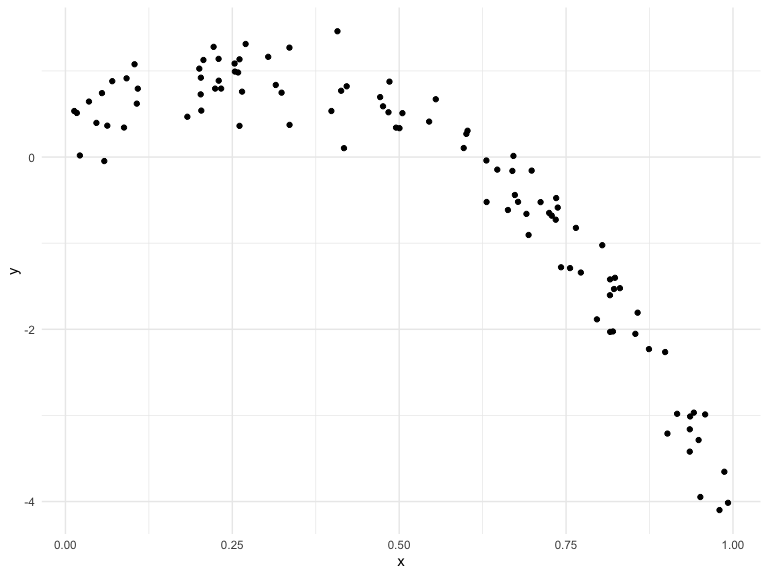
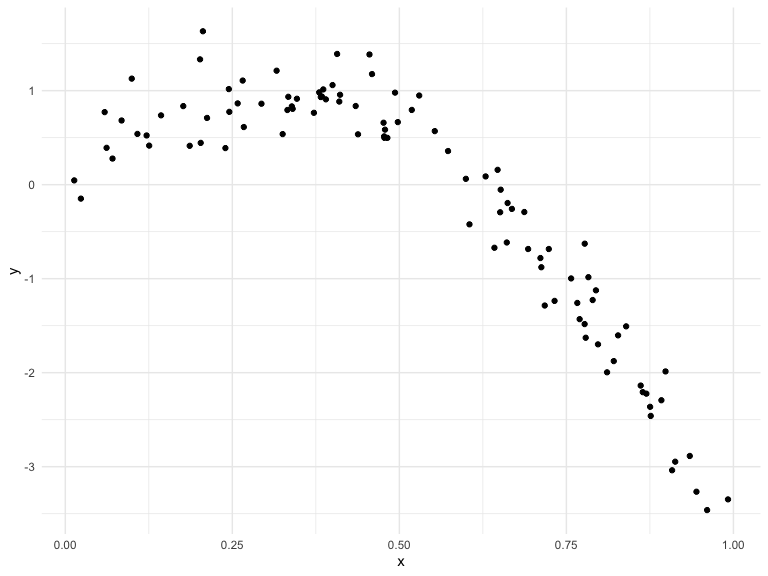
review course website content and edit

diff --git a/cross_validation.md b/cross_validation.md
@@ -1,7 +1,7 @@
 Cross Validation
 ================
 Elaine Yanxi Chen
-2022-12-01
+2022-12-03
 
 ## Packages and settings
 
@@ -30,11 +30,15 @@ options(
 
 scale_colour_discrete = scale_colour_viridis_d
 scale_fill_discrete = scale_fill_viridis_d
+
+set.seed(1)
 ```
 
 ## Step one
 
 Cross validation “by hand” on simulated data.
+
+We first generate a non-linear model by hand.
 
 ``` r
 nonlin_df = 
@@ -51,7 +55,10 @@ nonlin_df %>%
 
 <img src="cross_validation_files/figure-gfm/unnamed-chunk-1-1.png" width="90%" />
 
-Let’s get this by hand.
+Let’s get this by hand.Split the data into training and test sets using
+`anti_join` and replot showing the split. We want to use the training
+data in black to build candidate models, then see how these models
+predict in the testing data in red.
 
 ``` r
 train_df = sample_n(nonlin_df, 80)
@@ -68,6 +75,9 @@ train_df %>%
 <img src="cross_validation_files/figure-gfm/unnamed-chunk-3-1.png" width="90%" />
 
 Let’s try to fit three models.
+
+Using `mgcv::gam` for non-linear models, drawing smooth lines through
+data clouds, and can control how smooth we want the fit to be.
 
 ``` r
 linear_mod = lm(y ~ x, data = train_df)
@@ -107,6 +117,27 @@ train_df %>%
 
 <img src="cross_validation_files/figure-gfm/unnamed-chunk-5-3.png" width="90%" />
 
+Add predictions with `modelr::gather_predictions` function for several
+models to a dataframe and then pivot so that the result is tidy.
+
+``` r
+train_df %>% 
+  gather_predictions(linear_mod, smooth_mod, wiggly_mod) %>% 
+  mutate(model = fct_inorder(model)) %>% 
+  ggplot(aes(x = x, y = y)) +
+  geom_point() +
+  geom_line(aes(y = pred), colour = "red") +
+  facet_wrap(~ model)
+```
+
+<img src="cross_validation_files/figure-gfm/unnamed-chunk-6-1.png" width="90%" />
+
+Linear model is too simple and will never capture the true relationship
+between variables no matter what trianing data we use, standard smooth
+fit is pretty good, wiggly fit is too complex, chasing datapoints, vary
+a lot from one training dataset to the next, consistently wrong due to
+its complexity, highly variable
+
 Let’s make predictions and compute RMSEs.
 
 ``` r
@@ -114,48 +145,56 @@ test_df %>% add_predictions(linear_mod)
 ```
 
     ## # A tibble: 20 × 4
-    ##       id      x       y     pred
-    ##    <int>  <dbl>   <dbl>    <dbl>
-    ##  1     1 0.336   0.373   0.299  
-    ##  2     8 0.631  -0.0400 -0.902  
-    ##  3    10 0.831  -1.52   -1.72   
-    ##  4    11 0.671   0.0129 -1.07   
-    ##  5    14 0.104   1.08    1.24   
-    ##  6    16 0.993  -4.01   -2.38   
-    ##  7    17 0.916  -2.98   -2.07   
-    ##  8    19 0.737  -0.587  -1.34   
-    ##  9    21 0.694  -0.905  -1.16   
-    ## 10    25 0.398   0.534   0.0436 
-    ## 11    29 0.601   0.269  -0.780  
-    ## 12    38 0.823  -1.40   -1.69   
-    ## 13    41 0.631  -0.522  -0.903  
-    ## 14    52 0.555   0.671  -0.593  
-    ## 15    54 0.413   0.769  -0.0159 
-    ## 16    60 0.822  -1.53   -1.68   
-    ## 17    72 0.0547  0.743   1.44   
-    ## 18    88 0.407   1.46    0.00651
-    ## 19    90 0.597   0.105  -0.764  
-    ## 20    91 0.254   0.992   0.632
+    ##       id      x      y     pred
+    ##    <int>  <dbl>  <dbl>    <dbl>
+    ##  1     8 0.661  -0.615 -0.735  
+    ##  2    18 0.992  -3.35  -2.05   
+    ##  3    21 0.935  -2.89  -1.82   
+    ##  4    22 0.212   0.710  1.05   
+    ##  5    30 0.340   0.807  0.537  
+    ##  6    36 0.668  -0.258 -0.766  
+    ##  7    46 0.789  -1.23  -1.25   
+    ##  8    49 0.732  -1.24  -1.02   
+    ##  9    52 0.861  -2.14  -1.53   
+    ## 10    55 0.0707  0.278  1.61   
+    ## 11    59 0.662  -0.195 -0.740  
+    ## 12    63 0.459   1.18   0.0659 
+    ## 13    69 0.0842  0.683  1.55   
+    ## 14    74 0.334   0.935  0.563  
+    ## 15    75 0.476   0.659 -0.00274
+    ## 16    76 0.892  -2.29  -1.65   
+    ## 17    78 0.390   0.908  0.340  
+    ## 18    83 0.400   1.06   0.300  
+    ## 19    89 0.245   0.775  0.914  
+    ## 20    91 0.240   0.389  0.937
 
 ``` r
 rmse(linear_mod, test_df)
 ```
 
-    ## [1] 0.8193661
+    ## [1] 0.7052956
 
 ``` r
 rmse(smooth_mod, test_df)
 ```
 
-    ## [1] 0.3241096
+    ## [1] 0.2221774
 
 ``` r
 rmse(wiggly_mod, test_df)
 ```
 
-    ## [1] 0.3829915
+    ## [1] 0.289051
 
 ## Can we iterate…?
+
+We needed to convert output from `crossv_mc` to a tibble because it is
+not compatible with `gam`. If all we want is models from `lm` fit then
+this step can be skipped.
+
+Here, we are fitting each training dataset through the three models:
+linear, smooth, and wiggly.And then we will obtain the RMSEs by fitting
+each of the model through the testing dataset.
 
 ``` r
 cv_df = 
@@ -165,18 +204,18 @@ cv_df %>% pull(train) %>% .[[1]] %>% as_tibble()
 ```
 
     ## # A tibble: 79 × 3
-    ##       id     x       y
-    ##    <int> <dbl>   <dbl>
-    ##  1     3 0.324  0.747 
-    ##  2     4 0.204  0.539 
-    ##  3     5 0.265  0.759 
-    ##  4     7 0.670 -0.161 
-    ##  5     8 0.631 -0.0400
-    ##  6     9 0.816 -1.42  
-    ##  7    10 0.831 -1.52  
-    ##  8    11 0.671  0.0129
-    ##  9    12 0.673 -0.441 
-    ## 10    13 0.107  0.620 
+    ##       id      x       y
+    ##    <int>  <dbl>   <dbl>
+    ##  1     1 0.266   1.11  
+    ##  2     2 0.372   0.764 
+    ##  3     3 0.573   0.358 
+    ##  4     4 0.908  -3.04  
+    ##  5     6 0.898  -1.99  
+    ##  6     7 0.945  -3.27  
+    ##  7     8 0.661  -0.615 
+    ##  8     9 0.629   0.0878
+    ##  9    10 0.0618  0.392 
+    ## 10    11 0.206   1.63  
     ## # … with 69 more rows
 
 ``` r
@@ -198,7 +237,7 @@ cv_df =
   )
 ```
 
-Make a box plot…
+Make a box plot… Compare these models using the RMSE.
 
 ``` r
 cv_df %>% 
@@ -213,7 +252,7 @@ cv_df %>%
   geom_boxplot()
 ```
 
-<img src="cross_validation_files/figure-gfm/unnamed-chunk-8-1.png" width="90%" />
+<img src="cross_validation_files/figure-gfm/unnamed-chunk-9-1.png" width="90%" />
 
 ## Try it on a real dataset
 
@@ -235,12 +274,18 @@ growth_df %>%
   geom_point(alpha = 0.3)
 ```
 
-<img src="cross_validation_files/figure-gfm/unnamed-chunk-10-1.png" width="90%" />
+<img src="cross_validation_files/figure-gfm/unnamed-chunk-11-1.png" width="90%" />
+
+The plot suggest some non-linearity, especially at the low end of the
+weight distribution. The three models we will try here are the linear
+fit, a piecewise linear fit, and a smooth fit using `gam`.
 
 Brief aside on piecewise linear models.
 
+Here we add a “change point term” to the dataframe.
+
 ``` r
-growth_df =
+child_growth =
   growth_df %>% 
   mutate(
     weight_pwl = (weight > 7) * (weight - 7)
@@ -248,44 +293,58 @@ growth_df =
 ```
 
 ``` r
-linear_model = lm(armc ~ weight, data = growth_df)
-pwl_model = lm(armc ~ weight + weight_pwl, data = growth_df)
-smooth_model = mgcv::gam(armc ~ s(weight), data = growth_df)
+linear_model = lm(armc ~ weight, data = child_growth)
+pwl_model = lm(armc ~ weight + weight_pwl, data = child_growth)
+smooth_model = mgcv::gam(armc ~ s(weight), data = child_growth)
 ```
 
+Plotting the three models for an intuition for goodness of fit.
+
 ``` r
-growth_df %>% 
+child_growth %>% 
+  gather_predictions(linear_model, pwl_model, smooth_model) %>% 
+  mutate(model = fct_inorder(model)) %>% 
+  ggplot(aes(x = weight, y = armc)) + 
+  geom_point(alpha = .5) +
+  geom_line(aes(y = pred), colour = "red") + 
+  facet_grid(~model)
+```
+
+<img src="cross_validation_files/figure-gfm/unnamed-chunk-14-1.png" width="90%" />
+
+``` r
+child_growth %>% 
   add_predictions(pwl_model) %>% 
   ggplot(aes(x = weight, y = armc)) +
   geom_point(alpha = 0.3) +
   geom_line(aes(y = pred), colour = "red")
 ```
 
-<img src="cross_validation_files/figure-gfm/unnamed-chunk-13-1.png" width="90%" />
+<img src="cross_validation_files/figure-gfm/unnamed-chunk-15-1.png" width="90%" />
 
 ``` r
-growth_df %>% 
+child_growth %>% 
   add_predictions(linear_model) %>% 
   ggplot(aes(x = weight, y = armc)) +
   geom_point(alpha = 0.3) +
   geom_line(aes(y = pred), colour = "red")
 ```
 
-<img src="cross_validation_files/figure-gfm/unnamed-chunk-13-2.png" width="90%" />
+<img src="cross_validation_files/figure-gfm/unnamed-chunk-15-2.png" width="90%" />
 
 ``` r
-growth_df %>% 
+child_growth %>% 
   add_predictions(smooth_model) %>% 
   ggplot(aes(x = weight, y = armc)) +
   geom_point(alpha = 0.3) +
   geom_line(aes(y = pred), colour = "red")
 ```
 
-<img src="cross_validation_files/figure-gfm/unnamed-chunk-13-3.png" width="90%" />
+<img src="cross_validation_files/figure-gfm/unnamed-chunk-15-3.png" width="90%" />
 
 ``` r
 cv_df = 
-  crossv_mc(growth_df, 100) %>% 
+  crossv_mc(child_growth, 100) %>% 
   mutate(
     train = map(train, as_tibble),
     test = map(test, as_tibble),
@@ -320,4 +379,19 @@ cv_df %>%
   geom_boxplot()
 ```
 
-<img src="cross_validation_files/figure-gfm/unnamed-chunk-15-1.png" width="90%" />
+<img src="cross_validation_files/figure-gfm/unnamed-chunk-17-1.png" width="90%" />
+
+``` r
+cv_df %>% 
+  select(starts_with("rmse")) %>% 
+  pivot_longer(
+    everything(),
+    names_to = "model",
+    values_to = "rmse",
+    names_prefix = "rmse_"
+  ) %>% 
+  ggplot(aes(x = model, y = rmse)) +
+  geom_violin()
+```
+
+<img src="cross_validation_files/figure-gfm/unnamed-chunk-18-1.png" width="90%" />
